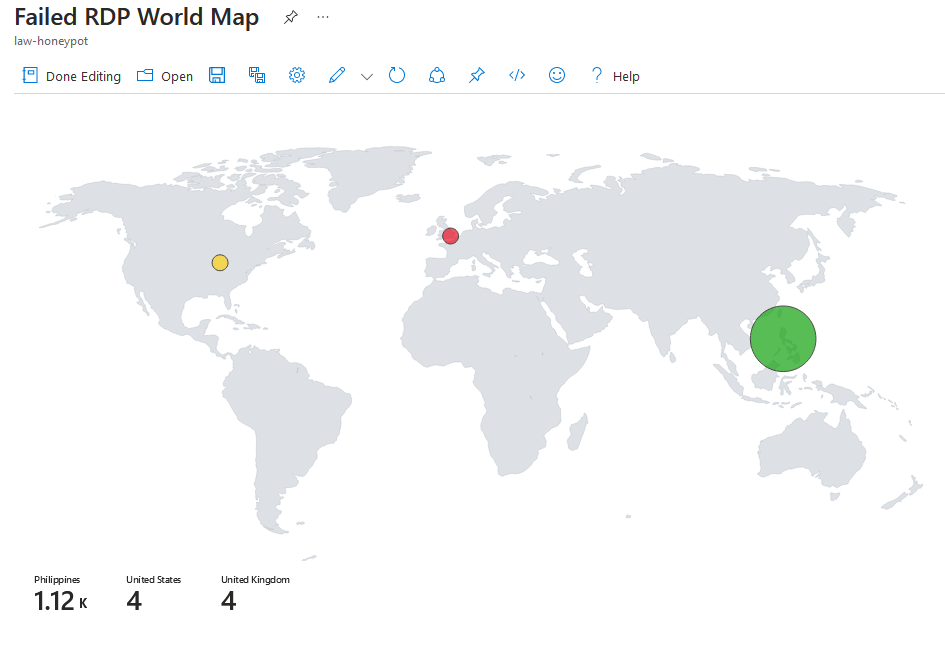
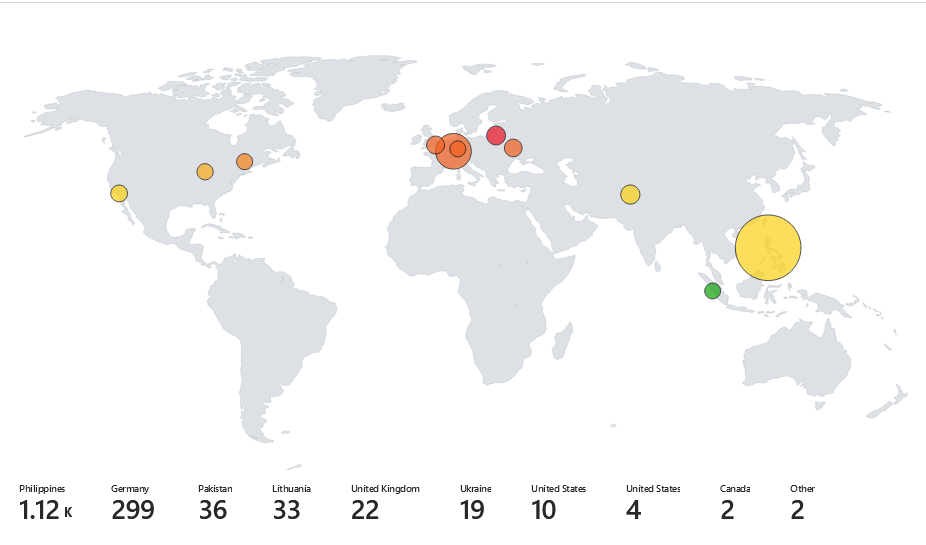
Update World Map

diff --git a/README.md b/README.md
@@ -122,9 +122,7 @@ FAILED_RDP_WITH_GEO_CL | extend username = extract(@"username:([^,]+)", 1, RawDa
 | summarize event_count=count() by latitude, longitude, sourcehost, label, destination, country 
 ```
 4. Run the Query!
-5. You can continue refreshing the map to display more failed RDP attacks. Here
-   the honey pot has only been running for a couple of hours and I already have
-   over 1,12k hits from the Philippines!
+5. You can continue refreshing the map to display more failed RDP attacks. Here the honey pot has was ran over night.
 ![Alt text](images/map.png)
 
 ## Wrapping up
